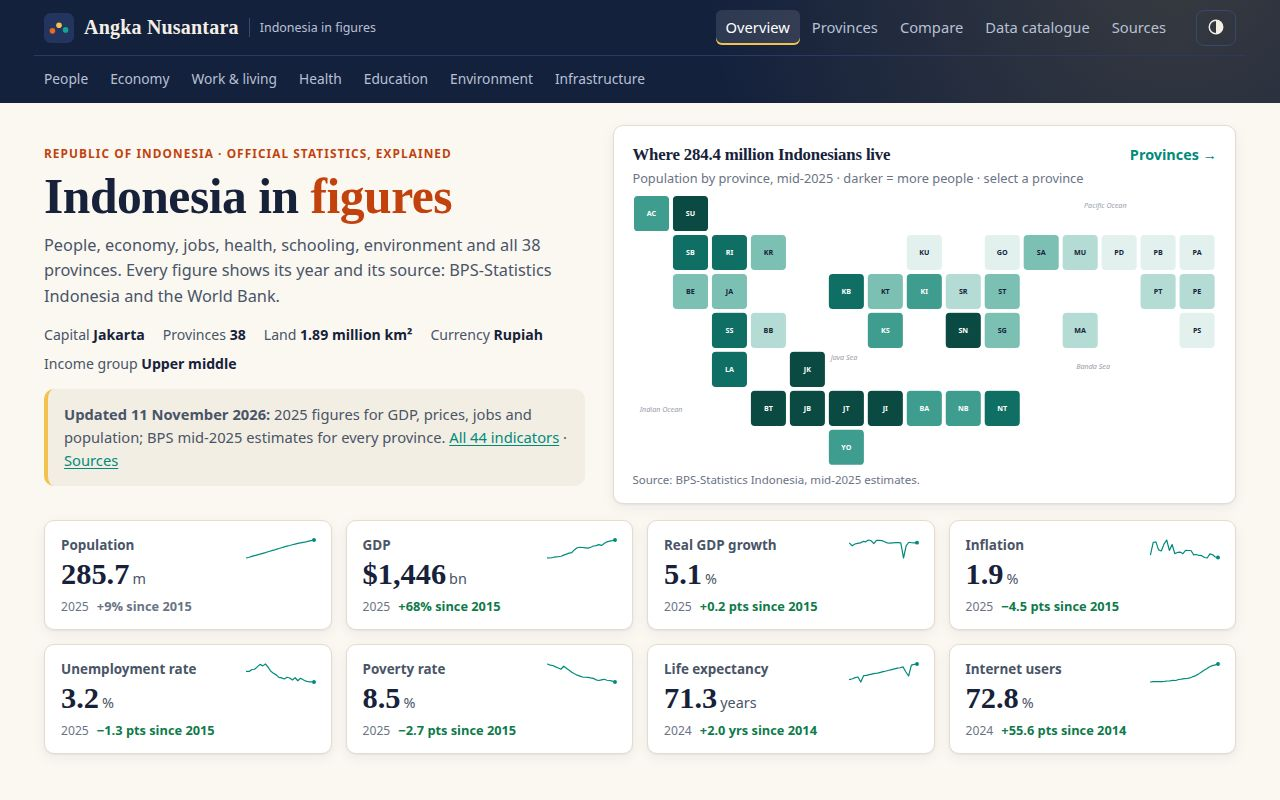
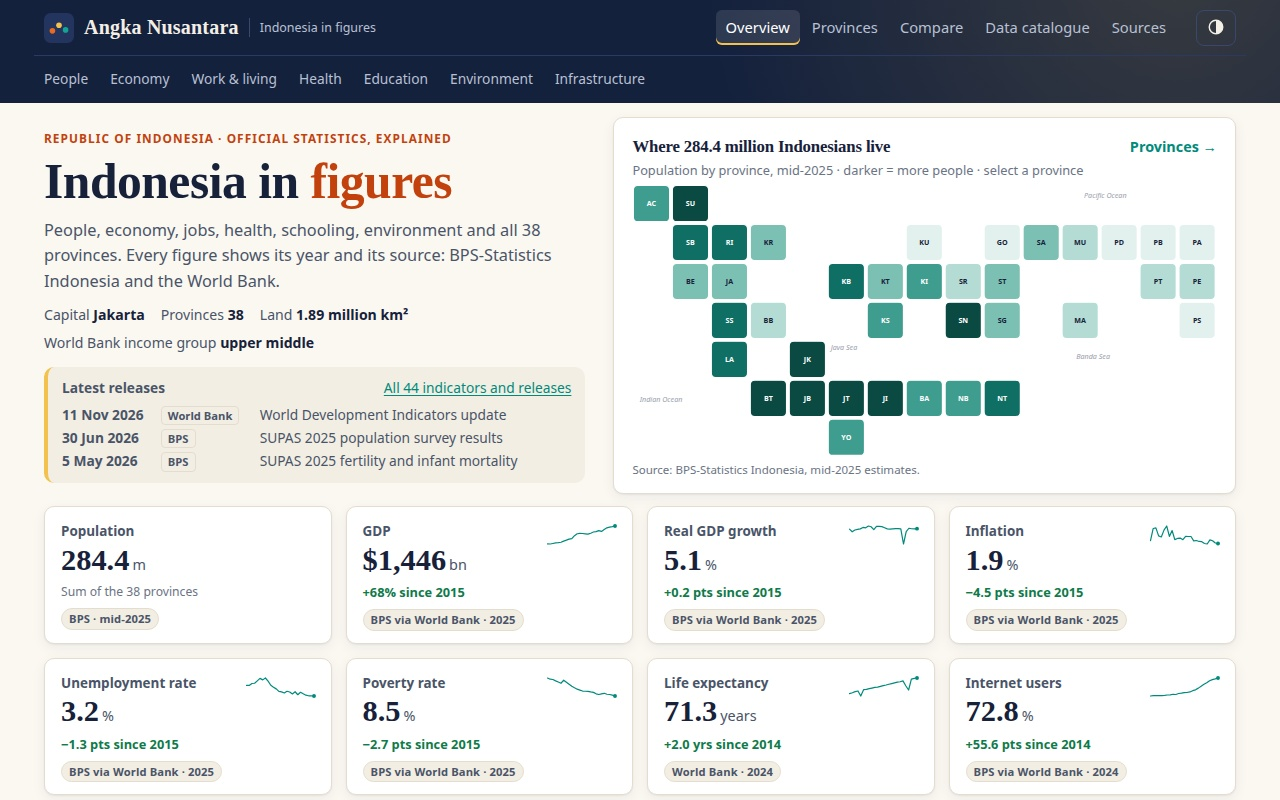
Review round 1: one cover population, source tags, method notes, releases list, sharper screenshots
- Cover shows BPS's 284.4 million (the province sum) for population, matching the map; the population and
  density indicator pages explain "why two numbers" (BPS vs World Bank/UN, dates and methods), and the
  province, provinces, compare and about pages point to it.
- Every headline card carries a source tag (BPS / BPS via World Bank / World Bank) with its year.
- Each indicator page gains a method note (app/data/sources.js) beside its definition; CSV checked on all 44.
- Dated "Latest releases" list on the overview hero, the overview and the data catalogue.
- Footer styled; screenshots retaken at JPEG q95, the phone one at 1.5x device scale, all within the gate.

diff --git a/app/data/sources.js b/app/data/sources.js
@@ -1,0 +1,75 @@
+// Who publishes each figure, how it is made, and where two agencies publish different national numbers.
+// The national series on this site come from the World Bank WDI; the provinces from BPS. Where both give a national
+// figure for the same thing, TWO_NUMBERS says why they differ, and every page that shows one points to it.
+import { NATIONAL } from './provinces.js';
+import { getIndicator, latestOf } from './indicators.js';
+
+const wdi = (id) => latestOf(getIndicator(id));
+
+/** Short label for the source tag on headline cards: the agency whose number is shown. */
+export function sourceTag(indicator) {
+  return /^BPS|from BPS|Susenas|Sakernas/.test(indicator.origin) ? 'BPS via World Bank' : 'World Bank';
+}
+
+// Method notes, matched against the compiling agency named in each indicator's `origin`. First match wins.
+const METHODS = [
+  [/^UN World Population Prospects/, 'Modelled by the UN Population Division from Indonesia\'s censuses, surveys and BPS estimates, reconciled across years so that births, deaths and migration add up. In the 2024 revision, estimates run to 2023 and later years are projections.'],
+  [/^UN World Urbanization/, 'Urban share follows BPS\'s own definition of urban villages (desa/kelurahan), which looks at density, farm households and services; the UN fills the years between censuses.'],
+  [/derived from UN World Population/, 'Computed by the World Bank as mid-year population (UN WPP) divided by land area (FAO), so it moves with both; a land-area revision gives the step in 2000.'],
+  [/^FAO land area/, 'Mid-year population (UN WPP) divided by land area (FAO). A land-area revision gives the step in 2000.'],
+  [/national accounts, from BPS/, 'BPS compiles GDP from the production and expenditure sides each quarter (2010 base year). The World Bank converts rupiah values to US dollars at the annual average official exchange rate, so dollar figures move with the rupiah.'],
+  [/International Comparison Program/, 'GDP converted with purchasing power parities from the World Bank\'s International Comparison Program, which prices the same basket of goods in every country, then extrapolated from the benchmark year with national growth and prices.'],
+  [/consumer price index/, 'Change in the annual average of BPS\'s consumer price index, a monthly survey of prices in about 150 cities. It differs from the December-on-December rate BPS headlines.'],
+  [/^IMF International Financial/, 'Annual average of the official rupiah–dollar rate reported by Bank Indonesia to the IMF.'],
+  [/^IMF Balance of Payments/, 'Bank Indonesia\'s balance of payments, compiled to the IMF\'s sixth manual (BPM6), as a share of GDP in current prices.'],
+  [/^ILO modelled/, 'ILO model estimates built from BPS\'s labour force survey (Sakernas) and harmonised to international definitions so countries compare. They can differ from the rates BPS publishes from the same survey.'],
+  [/Poverty and Inequality Platform/, 'Gini index of household consumption per person from BPS\'s Susenas survey, computed by the World Bank\'s Poverty and Inequality Platform.'],
+  [/Susenas\), March/, 'Share of people whose monthly consumption per person is below BPS\'s poverty line, the cost of 2,100 kilocalories of food a day plus basic non-food needs, measured in the March round of the Susenas household survey.'],
+  [/^UN Inter-agency Group for Child/, 'Estimated by the UN IGME with a statistical model fitted to every census, survey and registration record, which smooths survey noise; survey-based rates from BPS can differ.'],
+  [/^UN Maternal Mortality/, 'Model-based estimate by the UN Maternal Mortality Estimation Inter-Agency Group, combining census, survey and health-system data with covariates; the uncertainty range is wide.'],
+  [/Joint Child Malnutrition/, 'Share of children under five whose height-for-age is more than two standard deviations below the WHO growth standard median, from national nutrition surveys.'],
+  [/^WHO Global Health Expenditure/, 'Current health spending from all sources (government, insurance, households) as a share of GDP, following the System of Health Accounts.'],
+  [/^WHO\/UNICEF Joint Monitoring/, 'Estimated by the WHO/UNICEF JMP by fitting trends to household survey and census data on the main source people use.'],
+  [/^UNESCO Institute/, 'From the Ministry of Education\'s school records and UN population estimates (enrolment), or BPS\'s Susenas survey (literacy), compiled by UNESCO to international definitions.'],
+  [/^FAO Global Forest/, 'Forest as FAO defines it (land over 0.5 ha with trees above 5 m and canopy above 10%), reported by Indonesia to FAO\'s Forest Resources Assessment and interpolated between reports.'],
+  [/^EDGAR/, 'Fossil CO₂ estimated by the EU Joint Research Centre from energy and industry statistics with IPCC methods; it excludes land use and forest fires, which are large in Indonesia.'],
+  [/SDG 7 tracking/, 'Renewable energy as a share of total final energy consumption, from IEA and UN energy balances.'],
+  [/Global Electrification/, 'Share of people living in households with electricity, from Susenas and other household surveys, modelled between survey years.'],
+  [/^International Telecommunication/, 'Compiled by the ITU from BPS household surveys (internet use) or operator returns (subscriptions); prepaid SIM cards make subscriptions exceed people.'],
+];
+
+export function methodOf(indicator) {
+  const hit = METHODS.find(([pattern]) => pattern.test(indicator.origin));
+  return hit ? hit[1] : `Compiled by ${indicator.origin}.`;
+}
+
+/**
+ * National figures that two agencies publish differently. Each entry: the BPS value the provinces add up to, the
+ * World Bank value of the national series, and why they differ.
+ */
+export const TWO_NUMBERS = {
+  population: {
+    bps: { value: NATIONAL.pop / 1e6, text: `${(NATIONAL.pop / 1e6).toFixed(1)} million`, date: 'mid-2025' },
+    wdi: { text: `${wdi('population').value.toFixed(1)} million`, date: `mid-${wdi('population').year}` },
+    why: 'BPS projects each province forward from the 2020 Population Census; the 38 provinces on this site add up to its national total. The World Bank publishes the UN World Population Prospects 2024 figure, which the UN models from the same censuses but with its own assumptions on births, deaths and migration, so every country is estimated alike. The two differ by about 1.3 million people (0.5%). This site shows BPS on the cover and for provinces, and the UN figure for the long series and the comparison with neighbours.',
+  },
+  density: {
+    bps: { value: NATIONAL.pop / NATIONAL.area, text: `${Math.round(NATIONAL.pop / NATIONAL.area)} people per km²`, date: 'mid-2025' },
+    wdi: { text: `${Math.round(wdi('density').value)} people per km²`, date: String(wdi('density').year) },
+    why: 'The province pages divide BPS\'s mid-2025 population by BPS land area (1.89 million km²). This series divides the UN population by FAO land area and runs to 2024. The difference is under one person per km².',
+  },
+};
+
+/** Dated releases behind the figures on this site, newest first. */
+export const RELEASES = [
+  { date: '2026-11-11', agency: 'World Bank', title: 'World Development Indicators update', short: 'World Development Indicators update', what: 'All 44 national series on this site, with 2025 figures for GDP, prices, jobs, poverty and population.', url: 'https://datacatalog.worldbank.org/search/dataset/0037712', href: '#/data' },
+  { date: '2026-06-30', agency: 'BPS', title: 'Population and population indicators: results of SUPAS 2025', short: 'SUPAS 2025 population survey results', what: 'Full results of the 2025 Intercensal Population Survey.', url: 'https://www.bps.go.id/en/publication/2026/06/30/bdc814f38edf0a941f4f9d34/penduduk-dan-indikator-kependudukan-hasil-survei-penduduk-antar-sensus-2025.html', href: '#/topic/people' },
+  { date: '2026-05-05', agency: 'BPS', title: 'SUPAS 2025: total fertility rate 2.13, infant mortality 14.12', short: 'SUPAS 2025 fertility and infant mortality', what: 'Survey headline rates. They differ slightly from the UN-modelled 2.12 births per woman and 15.2 per 1,000 shown here.', url: 'https://www.bps.go.id/en/pressrelease/2026/05/05/2645/supas-2025--angka-kelahiran-total--tfr--sebesar-2-13---angka-kematian-bayi--imr--sebesar-14-12--dan-persentase-lansia-mencapai-11-97-persen-.html', href: '#/indicator/fertility' },
+  { date: '2026-02-27', agency: 'BPS', title: 'Statistik Indonesia 2026', short: 'Statistik Indonesia 2026: province estimates', what: 'Mid-2025 population and land area for the 38 provinces, used on the map and province pages.', url: 'https://www.bps.go.id/en/publication/2026/02/27/a43f03f45543dc4e9942f44c/statistik-indonesia-2026.html', href: '#/regions' },
+];
+
+const MONTHS = ['January', 'February', 'March', 'April', 'May', 'June', 'July', 'August', 'September', 'October', 'November', 'December'];
+export function formatDate(iso, { short = false } = {}) {
+  const [y, m, d] = iso.split('-').map(Number);
+  return `${d} ${short ? MONTHS[m - 1].slice(0, 3) : MONTHS[m - 1]} ${y}`;
+}

diff --git a/app/views/home.js b/app/views/home.js
@@ -5,9 +5,10 @@ import { INDICATORS, getIndicator, latestOf, WDI_UPDATED } from '../data/indicat
 import { TOPICS } from '../data/topics.js';
 import { NATIONAL, PROVINCES, PROVINCE_SOURCE } from '../data/provinces.js';
 import { PEERS, getPeerMetric } from '../data/peers.js';
+import { formatDate, RELEASES } from '../data/sources.js';
 import { tileMap } from '../charts/tile-map.js';
 import { barChart } from '../charts/bar-chart.js';
-import { mountSeriesCharts, seriesCard, statTile } from './parts.js';
+import { bpsPopulationTile, mountSeriesCharts, releasesList, seriesCard, statTile } from './parts.js';
 
 const HEADLINES = ['population', 'gdp', 'gdp-growth', 'inflation', 'unemployment', 'poverty', 'life-expectancy', 'internet'];
 const SHORT_LABELS = { inflation: 'Inflation', poverty: 'Poverty rate', 'life-expectancy': 'Life expectancy' };
@@ -15,10 +16,14 @@ const SHORT_LABELS = { inflation: 'Inflation', poverty: 'Poverty rate', 'life-ex
 function topicCard(topic) {
   const lead = getIndicator(topic.tiles[0]);
   const { year, value } = latestOf(lead);
+  // The people card leads with BPS's count, like the population tile above it.
+  const figure = lead.id === 'population'
+    ? `<span class="stat">${formatNumber(NATIONAL.pop / 1e6, 1)} m</span> <span class="small muted">people, BPS mid-2025</span>`
+    : `<span class="stat">${formatValue(lead, value)}</span> <span class="small muted">${esc(lead.name.toLowerCase())}, ${year}</span>`;
   return `<a class="card topic-card" href="#/topic/${topic.id}">
     <h3>${esc(topic.title)}</h3>
     <p>${esc(topic.intro.split('. ')[0])}.</p>
-    <div class="card__foot"><span><span class="stat">${formatValue(lead, value)}</span> <span class="small muted">${esc(lead.name.toLowerCase())}, ${year}</span></span><span class="more">Explore</span></div>
+    <div class="card__foot"><span>${figure}</span><span class="more">Explore</span></div>
   </a>`;
 }
 
@@ -35,11 +40,11 @@ export function render() {
       <h1>Indonesia in <em>figures</em></h1>
       <p class="lead">People, economy, jobs, health, schooling, environment and all 38 provinces. Every figure shows its year and its source: BPS-Statistics Indonesia and the World Bank.</p>
       <ul class="hero__facts">
-        <li>Capital <b>Jakarta</b></li><li>Provinces <b>38</b></li><li>Land <b>1.89 million km²</b></li>
-        <li>Currency <b>Rupiah</b></li><li>Income group <b>Upper middle</b></li>
+        <li>Capital <b>Jakarta</b></li><li>Provinces <b>38</b></li><li>Land <b>${formatNumber(NATIONAL.area / 1e6, 2)} million km²</b></li><li>World Bank income group <b>upper middle</b></li>
       </ul>
       <div class="hero__note">
-        <p><b>Updated ${WDI_UPDATED}:</b> 2025 figures for GDP, prices, jobs and population; BPS mid-2025 estimates for every province. <a href="#/data">All ${INDICATORS.length} indicators</a> · <a href="#/about">Sources</a></p>
+        <p class="hero__note-head"><b>Latest releases</b><a href="#/data">All ${INDICATORS.length} indicators and releases</a></p>
+        <ul class="hero__releases">${RELEASES.slice(0, 3).map((r) => `<li><time datetime="${r.date}">${formatDate(r.date, { short: true })}</time><span class="tag">${esc(r.agency)}</span><span>${esc(r.short)}</span></li>`).join('')}</ul>
       </div>
     </div>
     <div class="card hero__map">
@@ -51,7 +56,7 @@ export function render() {
   </section>
 
   <section aria-label="Headline figures">
-    <div class="tiles">${HEADLINES.map((id) => statTile(id, { label: SHORT_LABELS[id] })).join('')}</div>
+    <div class="tiles">${HEADLINES.map((id) => (id === 'population' ? bpsPopulationTile() : statTile(id, { label: SHORT_LABELS[id] }))).join('')}</div>
   </section>
 
   <section class="section">
@@ -81,6 +86,11 @@ export function render() {
       <div id="home-peers"></div>
       <p class="source">Source: World Bank International Comparison Program, via WDI (NY.GDP.PCAP.PP.CD). <a href="#/compare/gdp-per-capita-ppp">Compare twelve measures</a></p>
     </article>
+  </section>
+
+  <section class="section" id="releases">
+    <div class="section__head"><h2>Latest releases</h2><a class="more" href="#/about">Sources and methods</a></div>
+    <div class="card">${releasesList()}</div>
   </section>`;
 
   return {

diff --git a/app/styles.css b/app/styles.css
@@ -267,3 +267,47 @@ dl.meta dd { margin: 0; }
 .tilemap a.is-selected rect { stroke: var(--accent); stroke-width: 3; }
 .tilemap text { font-size: 11px; font-weight: 700; font-family: var(--sans); pointer-events: none; }
 .tilemap .sea { fill: var(--ink-3); font-size: 11px; font-weight: 500; font-style: italic; opacity: .7; }
+
+/* Source tags, "why two numbers" notes and the releases list */
+.tile__src { display: inline-block; align-self: flex-start; margin-top: 6px; padding: 1px 7px; border-radius: 999px; font-size: .7rem; font-weight: 600;
+  letter-spacing: .01em; color: var(--ink-2); background: var(--sunk); border: 1px solid var(--rule); white-space: nowrap; }
+.ind-head__value .tile__src { margin-top: 8px; }
+.tag { display: inline-block; padding: 0 6px; border-radius: 4px; font-size: .7rem; font-weight: 700; color: var(--ink-2); background: var(--sunk); border: 1px solid var(--rule); }
+.callout { margin-top: 24px; padding: 16px 18px; background: var(--card); border: 1px solid var(--rule); border-left: 4px solid var(--gold); border-radius: var(--radius); }
+.callout h3 { margin: 0 0 10px; }
+.callout p { margin: 10px 0 0; color: var(--ink-2); font-size: .92rem; }
+.note { margin: 10px 0 0; padding: 8px 12px; background: var(--sunk); border-radius: var(--radius); color: var(--ink-2); }
+.releases { list-style: none; margin: 0; padding: 0; }
+.releases li { display: grid; grid-template-columns: 9.5em 1fr; gap: 4px 16px; padding: 10px 0; border-bottom: 1px dashed var(--rule); }
+.releases li:last-child { border: 0; }
+.releases time { font-variant-numeric: tabular-nums; font-weight: 600; color: var(--ink-2); font-size: .9rem; }
+.releases p { margin: 2px 0 0; }
+.hero__releases { list-style: none; margin: 4px 0 8px; padding: 0; font-size: .86rem; }
+.hero__releases li { padding: 2px 0; }
+.hero__releases time { font-weight: 600; font-variant-numeric: tabular-nums; }
+@media (max-width: 600px) { .releases li { grid-template-columns: 1fr; } }
+.hero__note { padding: 10px 14px; }
+.hero__note-head { display: flex; justify-content: space-between; gap: 12px; margin: 0 0 4px; font-size: .86rem; }
+.hero__releases { margin: 0; }
+.hero__releases li { display: grid; grid-template-columns: 6.6em 6.6em 1fr; align-items: baseline; gap: 8px; padding: 1px 0; }
+.hero__releases .tag { justify-self: start; }
+.tile__src { margin-top: 4px; }
+@media (max-width: 600px) { .hero__releases li { grid-template-columns: 6.6em 1fr; } .hero__releases li > span:last-child { grid-column: 1 / -1; } }
+.hero__facts { gap: 6px 16px; }
+.hero__facts li:last-child { flex-basis: 100%; }
+.hero .lead { margin-bottom: 0; }
+.hero { margin-bottom: 12px; }
+.hero__map .card__sub { margin-bottom: 4px; }
+@media (min-width: 861px) { .hero:first-child { margin-top: -8px; } }
+
+/* Footer */
+.footer { border-top: 1px solid var(--rule); background: var(--sunk); color: var(--ink-2); font-size: .86rem; }
+.footer__inner { max-width: 1240px; margin: 0 auto; padding: 22px 24px 30px; }
+.footer__inner p { margin: 0 0 6px; }
+.footer__inner p:last-child { margin: 0; }
+@media (max-width: 600px) { .footer__inner { padding: 18px 16px 26px; } }
+@media (max-width: 600px) {
+  .hero__releases li { grid-template-columns: auto 1fr; gap: 2px 10px; padding: 6px 0; border-top: 1px dashed var(--rule); }
+  .hero__releases li:first-child { border-top: 0; }
+  .hero__note-head { flex-wrap: wrap; }
+}

diff --git a/app/views/parts.js b/app/views/parts.js
@@ -5,6 +5,7 @@ import { changeOver, getIndicator, latestOf, pointsOf, WDI_UPDATED } from '../da
 import { sparkline } from '../charts/sparkline.js';
 import { lineChart } from '../charts/line-chart.js';
 import { EVENTS } from '../data/topics.js';
+import { formatDate, RELEASES, sourceTag, TWO_NUMBERS } from '../data/sources.js';
 
 export const WDI_URL = 'https://data.worldbank.org/indicator/';
 
@@ -32,8 +33,45 @@ export function statTile(id, { label } = {}) {
   return `<a class="tile" href="#/indicator/${d.id}">
     <span class="tile__label">${esc(label ?? d.name)}</span>
     <span class="tile__value">${esc(prefix)}${formatValue(d, value, { withUnit: false })}<span class="tile__unit">${esc(suffix.trim() || shortUnit(d))}</span></span>
-    <span class="tile__meta"><span>${year}</span>${changeBadge(d)}${sparkline(pointsOf(d, 2000))}</span>
+    <span class="tile__meta">${changeBadge(d)}${sparkline(pointsOf(d, 2000))}</span>
+    <span class="tile__src">${esc(sourceTag(d))} · ${year}</span>
   </a>`;
+}
+
+/** The national population as BPS counts it: the sum of the 38 provinces, so the cover and the map agree. */
+export function bpsPopulationTile() {
+  const { bps } = TWO_NUMBERS.population;
+  return `<a class="tile" href="#/indicator/population">
+    <span class="tile__label">Population</span>
+    <span class="tile__value">${bps.value.toFixed(1)}<span class="tile__unit">m</span></span>
+    <span class="tile__meta">Sum of the 38 provinces</span>
+    <span class="tile__src">BPS · ${bps.date}</span>
+  </a>`;
+}
+
+/** The dated releases behind the site's figures, newest first. */
+export function releasesList(limit = RELEASES.length) {
+  return `<ol class="releases">${RELEASES.slice(0, limit).map((r) => `<li>
+    <time datetime="${r.date}">${formatDate(r.date)}</time>
+    <div><span class="tag">${esc(r.agency)}</span> <a href="${r.url}" rel="noopener">${esc(r.title)}</a>
+    <p class="small muted">${esc(r.what)} <a href="${r.href}">See it here</a></p></div></li>`).join('')}</ol>`;
+}
+
+/** "Why two numbers": BPS and the World Bank side by side, with dates and the reason they differ. */
+export function twoNumbersNote(id, { compact = false } = {}) {
+  const n = TWO_NUMBERS[id];
+  if (!n) return '';
+  if (compact) {
+    return `<p class="note small">BPS puts this at <b>${esc(n.bps.text)}</b> (${n.bps.date}); the World Bank at <b>${esc(n.wdi.text)}</b> (${n.wdi.date}). <a href="#/indicator/${id}">Why two numbers</a></p>`;
+  }
+  return `<aside class="callout" aria-label="Why two numbers">
+    <h3>Why two numbers?</h3>
+    <dl class="meta">
+      <dt>BPS-Statistics Indonesia</dt><dd><b>${esc(n.bps.text)}</b>, ${n.bps.date}: sum of the 38 provinces, used on the cover and province pages</dd>
+      <dt>World Bank WDI</dt><dd><b>${esc(n.wdi.text)}</b>, ${n.wdi.date}: this series, used for trends and comparisons</dd>
+    </dl>
+    <p>${esc(n.why)}</p>
+  </aside>`;
 }
 
 function shortUnit(d) {

diff --git a/app/views/province.js b/app/views/province.js
@@ -5,6 +5,7 @@ import { formatNumber, ordinal } from '../lib/format.js';
 import { NATIONAL, PROVINCES, PROVINCE_SOURCE, getProvince, groupName, groupTotals, rankOf } from '../data/provinces.js';
 import { tileMap } from '../charts/tile-map.js';
 import { barChart } from '../charts/bar-chart.js';
+import { twoNumbersNote } from './parts.js';
 
 function neighbours(p) {
   const sorted = [...PROVINCES].sort((a, b) => b.pop - a.pop);
@@ -20,7 +21,7 @@ export function render([iso]) {
   const { bigger, smaller } = neighbours(p);
   const nationalDensity = NATIONAL.pop / NATIONAL.area;
   const denser = p.density / nationalDensity;
-  const tile = (label, value, note) => `<div class="tile"><span class="tile__label">${label}</span><span class="tile__value">${value}</span><span class="tile__meta"><span>${note}</span></span></div>`;
+  const tile = (label, value, note) => `<div class="tile"><span class="tile__label">${label}</span><span class="tile__value">${value}</span><span class="tile__meta"><span>${note}</span></span><span class="tile__src">BPS · mid-2025</span></div>`;
 
   const html = `
     <p class="crumbs"><a href="#/">Overview</a> / <a href="#/regions">Provinces</a> / ${esc(p.name)}</p>
@@ -33,7 +34,7 @@ export function render([iso]) {
       ${tile('Share of Indonesia', `${formatNumber(share, 1)}<span class="tile__unit">%</span>`, `of ${formatNumber(NATIONAL.pop / 1e6, 1)} million`)}
       ${tile('Land area', `${formatNumber(p.area, 0)}<span class="tile__unit">km²</span>`, `${ordinal(rankOf(p, 'area'))} largest`)}
       ${tile('Population density', `${formatNumber(p.density, 0)}<span class="tile__unit">per km²</span>`, `${ordinal(rankOf(p, 'density'))} densest · national ${formatNumber(nationalDensity, 0)}`)}
-    </div></section>
+    </div>${twoNumbersNote('population', { compact: true })}</section>
 
     <section class="section grid-2">
       <article class="card">

diff --git a/app/views/indicator.js b/app/views/indicator.js
@@ -6,7 +6,8 @@ import { getIndicator, indicatorsInTopic, latestOf, pointsOf, WDI_UPDATED } from
 import { EVENTS, getTopic } from '../data/topics.js';
 import { getPeerMetric } from '../data/peers.js';
 import { lineChart } from '../charts/line-chart.js';
-import { changeBadge, WDI_URL } from './parts.js';
+import { methodOf, sourceTag } from '../data/sources.js';
+import { changeBadge, twoNumbersNote, WDI_URL } from './parts.js';
 
 const RANGES = [
   { id: 'all', label: 'All years', from: -Infinity },
@@ -44,9 +45,12 @@ export function render([id], query) {
       <div class="ind-head__value">
         <div class="big">${formatValue(d, value)}</div>
         <div class="muted small">${esc(d.unit)} · ${year}</div>
+        <div class="tile__src">${esc(sourceTag(d))} · ${year}</div>
         <div>${changeBadge(d)}</div>
       </div>
     </div>
+
+    ${twoNumbersNote(d.id)}
 
     <section class="section card">
       <div class="controls">
@@ -70,6 +74,7 @@ export function render([id], query) {
         <div class="card">
           <dl class="meta">
             <dt>Definition</dt><dd>${esc(d.about)}</dd>
+            <dt>Method</dt><dd>${esc(methodOf(d))}</dd>
             <dt>Unit</dt><dd>${esc(d.unit)}</dd>
             <dt>Coverage</dt><dd>${first[0]}–${year}, ${pointsOf(d).length} published years</dd>
             <dt>Compiled by</dt><dd>${esc(d.origin)}</dd>

diff --git a/app/views/compare.js b/app/views/compare.js
@@ -5,7 +5,7 @@ import { formatNumber } from '../lib/format.js';
 import { PEERS, PEER_METRICS, getPeerMetric } from '../data/peers.js';
 import { getIndicator, WDI_UPDATED } from '../data/indicators.js';
 import { barChart } from '../charts/bar-chart.js';
-import { WDI_URL } from './parts.js';
+import { twoNumbersNote, WDI_URL } from './parts.js';
 
 const show = (m, v) => `${m.prefix ?? ''}${formatNumber(v, m.dp)}${m.suffix ?? ''}`;
 
@@ -41,6 +41,7 @@ export function render([id]) {
       <h2>${esc(metric.name)}</h2>
       <p class="card__sub">${esc(metric.unit)}, ${metric.year}${metric.note ? ` (${esc(metric.note)})` : ''}</p>
       <p>${esc(rankSentence(metric))}</p>
+      ${twoNumbersNote(metric.id, { compact: true })}
       <div id="peer-bars"></div>
       <div class="legend"><span class="legend__key"><i style="background:var(--s2)"></i>Indonesia</span><span class="legend__key"><i style="background:var(--s1)"></i>Neighbours</span></div>
       <p class="source">Source: World Bank WDI series <a href="${WDI_URL}${metric.code}" rel="noopener">${metric.code}</a>, latest year available, updated ${WDI_UPDATED}.</p>

diff --git a/app/views/regions.js b/app/views/regions.js
@@ -5,6 +5,7 @@ import { formatNumber } from '../lib/format.js';
 import { ISLAND_GROUPS, NATIONAL, PROVINCES, PROVINCE_SOURCE, groupName, groupTotals } from '../data/provinces.js';
 import { tileMap } from '../charts/tile-map.js';
 import { barChart } from '../charts/bar-chart.js';
+import { twoNumbersNote } from './parts.js';
 
 export const MEASURES = [
   { id: 'pop', label: 'Population', unit: 'million people', format: (v) => `${formatNumber(v / 1e6, 2)} m` },
@@ -45,6 +46,7 @@ export function render(_params, query) {
     <p class="eyebrow">Regional statistics</p>
     <h1>The 38 provinces</h1>
     <p class="lead">${formatNumber(NATIONAL.pop / 1e6, 1)} million people in mid-2025, unevenly spread: Java holds ${formatNumber(javaShare, 1)}% of them on ${formatNumber(javaLand, 1)}% of the land. Jakarta has ${formatNumber(PROVINCES.find((p) => p.iso === 'jk').density, 0)} people per km²; South Papua has ${formatNumber(PROVINCES.find((p) => p.iso === 'ps').density, 0)}.</p>
+    ${twoNumbersNote('population', { compact: true })}
 
     <section class="section map-layout">
       <div class="card">

diff --git a/app/views/about.js b/app/views/about.js
@@ -35,6 +35,7 @@ export function render() {
       <div class="card">
         <h3>Reading the numbers well</h3>
         <ul>
+          <li><b>Two national populations</b>: BPS counts 284.4 million (mid-2025, the sum of the provinces) and the World Bank, using the UN's model, 285.7 million. The cover and province pages use BPS; trends and comparisons use the World Bank. <a href="#/indicator/population">Why two numbers</a></li>
           <li><b>Unemployment</b> is the ILO's modelled rate, built to compare countries. BPS publishes its own open unemployment rate (TPT) from Sakernas twice a year, which is defined differently.</li>
           <li><b>Poverty</b> uses Indonesia's national poverty line, set by BPS from the cost of basic needs, not an international dollar-a-day line.</li>
           <li><b>GDP in US dollars</b> moves with the rupiah: in 1998 it more than halved, mostly because the currency collapsed. Use real growth to see output.</li>

diff --git a/app/views/catalogue.js b/app/views/catalogue.js
@@ -4,7 +4,7 @@ import { esc } from '../lib/dom.js';
 import { formatValue } from '../lib/format.js';
 import { INDICATORS, latestOf, WDI_UPDATED } from '../data/indicators.js';
 import { TOPICS, getTopic } from '../data/topics.js';
-import { changeBadge } from './parts.js';
+import { changeBadge, releasesList } from './parts.js';
 
 function row(d) {
   const { year, value } = latestOf(d);
@@ -32,7 +32,11 @@ export function render() {
     <div class="table-wrap"><table>
       <thead><tr><th>Indicator</th><th>Topic</th><th class="n">Latest</th><th class="n">Year</th><th>10-year change</th><th>Source</th></tr></thead>
       <tbody id="cat-rows">${INDICATORS.map(row).join('')}</tbody>
-    </table></div>`;
+    </table></div>
+    <section class="section">
+      <h2>Latest releases</h2>
+      <div class="card">${releasesList()}</div>
+    </section>`;
 
   return {
     title: 'Data catalogue',

diff --git a/README.md b/README.md
@@ -30,6 +30,11 @@ An independent national statistics site for Indonesia, entered in the make.fun b
 - **38 provinces**: BPS mid-2025 population estimates and land area. They sum to 284,438,600 people, BPS's national
   mid-2025 total.
 - **Neighbour comparison**: the latest WDI value for each of six countries.
+- **One headline population**: the cover and province pages use BPS's 284.4 million (the province sum); the population
+  series and the comparison use the World Bank/UN 285.7 million. The population and density pages explain why the two
+  differ, and every headline card carries a source tag (BPS / World Bank) with its year.
+- **Latest releases**: a dated list of the publications behind the figures, on the overview and the data catalogue.
+- Every indicator page has a definition, a method note, its source and series code, and a CSV download.
 
 All data lives in `app/data/`; the site makes no network requests.
 
@@ -44,7 +49,7 @@ app/
   index.html  styles.css  main.js (masthead, theme)  router.js (hash routes, lazy pages)
   lib/      format.js (numbers)  dom.js (escaping, CSV, resize)
   charts/   line-chart.js  bar-chart.js  tile-map.js  sparkline.js  tooltip.js  scale.js
-  data/     indicators.js  topics.js  provinces.js  peers.js
+  data/     indicators.js  topics.js  provinces.js  peers.js  sources.js (source tags, methods, two-number notes, releases)
   views/    home.js  topic.js  indicator.js  regions.js  province.js  compare.js  catalogue.js  about.js  parts.js  not-found.js
 ```
 
